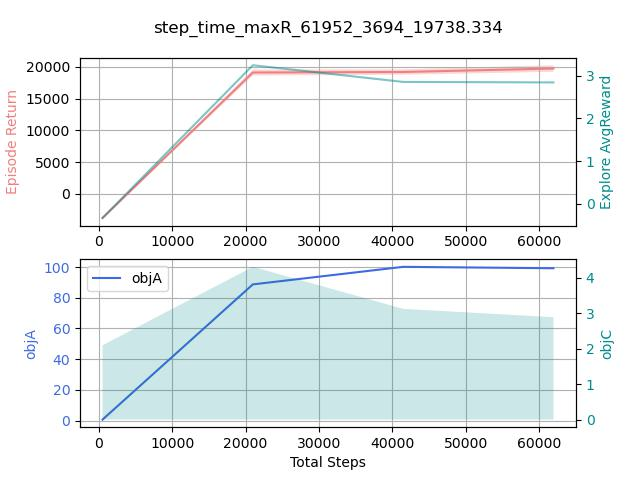
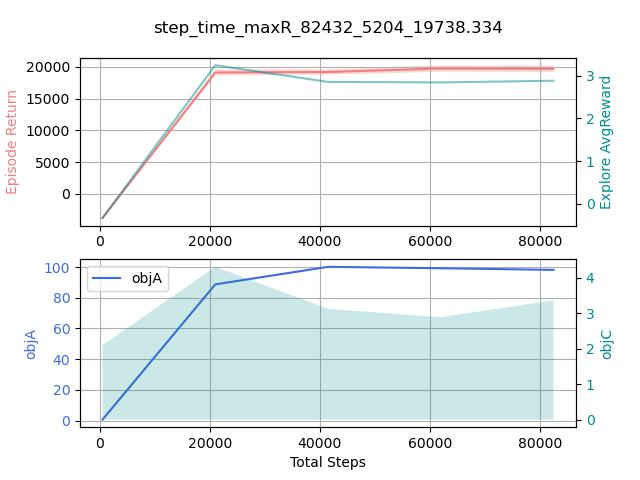
230222 VNS分支,MK06重大改进

diff --git a/src/LLH/LLHSetVNS2.py b/src/LLH/LLHSetVNS2.py
@@ -1,0 +1,332 @@
+import random
+
+from src.LLH.LLHUtils import timeTaken, getMachineIdx, changeMsRandom
+from src.utils import encoding
+from src.utils.parser import parse
+
+
+class LLHSetVNS():
+    def __init__(self, train = False):
+        # solutions
+        # self.solution_population = []
+        # self.solution_population_time = []
+        self.train = train
+        # if self.train:
+        #     self.best_solution = self.previous_solution = encoding.initializeFixedResult(self.parameters)
+        # else:
+        #     self.best_solution = self.previous_solution = encoding.initializeResult(self.parameters)
+        # self.best_time = self.previous_time = timeTaken(self.previous_solution, self.parameters)
+        # print('prev:', self.previous_time)
+
+
+        #llh
+        self.llh = []
+        # 添加所有函数到 llh
+        self.llh.append(self.heuristic1)
+        self.llh.append(self.heuristic2)
+        self.llh.append(self.heuristic3)
+        self.llh.append(self.heuristic4)
+        self.llh.append(self.heuristic5)
+        # self.llh.append(self.heuristicA)
+        self.llh.append(self.heuristicB)
+        # self.llh.append(self.heuristicC)
+        self.llh.append(self.heuristicD)
+        self.llh.append(self.heuristicE)
+        self.llh.append(self.heuristicF)
+
+
+
+    # 工具方法,更新最优解
+    def update_best_solution(self):
+        if self.best_time > self.previous_time:
+            self.best_solution = self.previous_solution
+            self.best_time = self.previous_time
+
+    # 重设
+    def reset(self, problem_path):
+        self.parameters = parse(problem_path)
+
+        if self.train:
+            self.best_solution = self.previous_solution = encoding.initializeFixedResult(self.parameters)
+        else:
+            self.best_solution = self.previous_solution = encoding.initializeResult(self.parameters)
+        self.previous_time = self.best_time = timeTaken(self.previous_solution, self.parameters)
+
+    def accept_wrapper(self, llh_call):
+        new_solution, new_time = self.llh[llh_call]()
+        if llh_call in [0, 1, 2, 3, 4]:
+            if new_time < self.previous_time:
+                self.previous_solution = new_solution
+                self.previous_time = new_time
+                return True
+        else:
+            self.previous_solution = new_solution
+            self.previous_time = new_time
+        self.update_best_solution()
+
+
+
+
+    # VND==============================================
+    # 工序码局部搜索,返回值为 previous_time 改写完成
+
+    def heuristic1(self):
+        (os, ms) = self.previous_solution
+        idx = random.randint(0, len(os) - 1)
+        for i in range(0, len(os)):
+            newOs = os.copy()
+            k = newOs[idx]
+            newOs = newOs[0:idx] + newOs[idx + 1: len(newOs)]
+            newOs = newOs[0: i] + [k] + newOs[i: len(newOs)]
+            new_time = timeTaken((newOs, ms), self.parameters)
+            if self.previous_time > new_time:
+                return (newOs, ms), new_time
+        return (os, ms), self.previous_time
+
+    # 机器码局部搜索，全搜一遍,返回 previous_time 改写完成
+    def heuristic2(self):
+        # self.check_tabu(os_ms)
+        # 获取作业集合
+        jobs = self.parameters['jobs']
+        # idx = self.get_randon_zero_index(self.ms_tabu)
+        # idx = random.randint(0, len(ms) - 1)
+        # self.ms_tabu[idx] = 1
+        # 搜索整个机器码序列
+        for idx in range(0, len(self.previous_solution[1])):
+            mcLength = 0  # 工具人
+            jobIdx = -1  # 所属工作号
+            for job in jobs:
+                jobIdx += 1
+                if mcLength + len(job) >= idx + 1:
+                    break
+                else:
+                    mcLength += len(job)
+            opIdx = idx - mcLength  # 指定位置对应的 在工件中的工序号
+            # 开始搜索机器集合
+            for i in range(0, len(jobs[jobIdx][opIdx])):
+                newMs = self.previous_solution[1].copy()
+                newMs[idx] = i
+                new_time = timeTaken((self.previous_solution[0], newMs), self.parameters)
+                if self.previous_time > new_time:
+                    self.previous_solution = (self.previous_solution[0], newMs)
+                    self.previous_time = new_time
+                    break
+        self.update_best_solution()
+
+    # 并行局部搜索 改进在此
+    def heuristic3(self):
+        # self.check_tabu(os_ms)
+
+        # 获取作业集合
+        jobs = self.parameters['jobs']
+        # print(tos)
+        idx = random.randint(0, len(self.previous_solution[0]) - 1)
+        # idx = self.get_randon_zero_index(self.os_tabu2)
+        # self.os_tabu2[idx] = 1
+        # 获取作业编号
+        for i in range(0, len(self.previous_solution[0])):
+            newOs = self.previous_solution[0].copy()
+            k = newOs[idx]
+            newOs = newOs[0:idx] + newOs[idx + 1: len(newOs)]
+            newOs = newOs[0: i] + [k] + newOs[i: len(newOs)]
+            # 工序新位置到位
+            # 开始机器码搜索
+            machineIdx = getMachineIdx(i, newOs, self.parameters)
+            mcLength = 0  # 工具人
+            jobIdx = -1  # 所属工作号
+            for job in jobs:
+                jobIdx += 1
+                if mcLength + len(job) >= machineIdx + 1:
+                    break
+                else:
+                    mcLength += len(job)
+            opIdx = machineIdx - mcLength
+            for j in range(0, len(jobs[jobIdx][opIdx])):
+                newMs = self.previous_solution[1].copy()
+                newMs[machineIdx] = j
+                new_time = timeTaken((newOs, newMs), self.parameters)
+                if self.previous_time > new_time:
+                    self.previous_solution = (newOs, newMs)
+                    self.previous_time = new_time
+                    break
+        self.update_best_solution()
+
+    # 10. 随机前移工序码子序列, 并改变对应位置的机器码
+    def heuristic4(self):
+        ida = idb = random.randint(0, len(self.previous_solution[0]) - 2)
+        while ida == idb:
+            idb = random.randint(0, len(self.previous_solution[0]) - 1)
+        if ida > idb:
+            ida, idb = idb, ida
+        newOs = self.previous_solution[0][ida:idb + 1] + self.previous_solution[0][:ida] + self.previous_solution[0][idb + 1:]
+        newMs = self.previous_solution[1].copy()
+        for i in range(0, idb - ida + 1):
+            newMs = changeMsRandom(i, newMs, self.parameters)
+        new_time = timeTaken((newOs, newMs), self.parameters)
+        if self.previous_time > new_time:
+            self.previous_solution = (newOs, newMs)
+            self.previous_time = new_time
+            self.update_best_solution()
+
+    # 5. 随机改变单个机器码
+    def heuristic5(self):
+        machineIdx = random.randint(0, len(self.previous_solution[1]) - 1)
+        # ('selected idx : ', machineIdx)
+        newMs = changeMsRandom(machineIdx, self.previous_solution[1], self.parameters)
+        new_time = timeTaken((self.previous_solution[0], newMs), self.parameters)
+        if self.previous_time > new_time:
+            self.previous_solution = (self.previous_solution[0], newMs)
+            self.previous_time = new_time
+            self.update_best_solution()
+
+    # 9. 工序码随机反转子序列并同时随机改变对应位置机器码 已测
+    def heuristic6(self):
+        ida = idb = random.randint(0, len(self.previous_solution[0]) - 2)
+        while ida == idb:
+            idb = random.randint(0, len(self.previous_solution[0]) - 1)
+        if ida > idb:
+            ida, idb = idb, ida
+        rev = self.previous_solution[0][ida:idb + 1]
+        rev.reverse()
+        newOs = self.previous_solution[0][:ida] + rev + self.previous_solution[0][idb + 1:]
+        newMs = self.previous_solution[1].copy()
+        for i in range(ida, idb + 1):
+            # print('place: ', i)
+            newMs = changeMsRandom(i, newMs, self.parameters)
+        new_time = timeTaken((newOs, newMs), self.parameters)
+        if self.previous_time > new_time:
+            self.previous_solution = (newOs, newMs)
+            self.previous_time = new_time
+            self.update_best_solution()
+
+
+
+    # shaking=========================================================
+    # 随机机器码区间破坏
+    def heuristicA(self):
+        (os, ms) = self.previous_solution
+        ida = idb = random.randint(0, len(os) - 2)
+        while ida == idb:
+            idb = random.randint(0, len(os) - 1)
+        if ida > idb:
+            ida, idb = idb, ida
+        newMs = ms.copy()
+        for i in range(0, idb - ida + 1):
+            newMs = changeMsRandom(i, newMs, self.parameters)
+        new_time = timeTaken((os, newMs), self.parameters)
+        self.previous_solution = (os, newMs)
+        self.previous_time = new_time
+
+    # 随机工序码区间破坏
+    def heuristicB(self):
+        (os, ms) = self.previous_solution
+        ida = idb = random.randint(0, len(os) - 2)
+        while ida == idb:
+            idb = random.randint(0, len(os) - 1)
+        if ida > idb:
+            ida, idb = idb, ida
+        # 打乱区间的工序码顺序
+        newOs = os.copy()
+        mid = newOs[ida:idb + 1]
+        random.shuffle(mid)
+        newOs = os[:ida] + mid + os[idb + 1:]
+        # 替换当前解
+        new_time = timeTaken((newOs, ms), self.parameters)
+        self.previous_solution = (newOs, ms)
+        self.previous_time = new_time
+
+    # 并行区间破坏
+    def heuristicC(self):
+        # 选择操作区间
+        (os, ms) = self.previous_solution
+        ida = idb = random.randint(0, len(os) - 2)
+        while ida == idb:
+            idb = random.randint(0, len(os) - 1)
+        if ida > idb:
+            ida, idb = idb, ida
+        # 打乱区间的工序码顺序
+        newOs = os.copy()
+        mid = newOs[ida:idb + 1]
+        random.shuffle(mid)
+        newOs = os[:ida] + mid + os[idb + 1:]
+        #随机改变区间工序码对应机器码
+        newMs = ms.copy()
+        for i in range(0, idb - ida + 1):
+            machineIdx = getMachineIdx(i, newOs, self.parameters)
+            newMs = changeMsRandom(machineIdx, newMs, self.parameters)
+        # 替换当前解,跳出邻域
+        new_time = timeTaken((newOs, newMs), self.parameters)
+        self.previous_solution = (newOs, newMs)
+        self.previous_time = new_time
+
+    # 小邻域结构==============================
+
+    # 8. 工序码随机交换同时随机改变对应位置机器码 已测
+    def heuristicD(self):
+
+        (os, ms) = self.previous_solution
+        while(True):
+            newOs = os.copy()
+            newMs = ms.copy()
+            # 随机选择两个工序码
+            ida = idb = random.randint(0, len(os) - 1)
+            while ida == idb:
+                idb = random.randint(0, len(os) - 1)
+            # 交换工序码
+            newOs[ida], newOs[idb] = newOs[idb], newOs[ida]
+            # 定位机器码
+            machineIda = getMachineIdx(ida, os, self.parameters)
+            machineIdb = getMachineIdx(idb, os, self.parameters)
+            # 随机改变机器码
+            newMs = changeMsRandom(machineIda, newMs, self.parameters)
+            newMs = changeMsRandom(machineIdb, newMs, self.parameters)
+
+            # 替换当前解,跳出邻域
+            new_time = timeTaken((newOs, newMs), self.parameters)
+            # if new_time != self.previous_time:
+            #     self.previous_solution = (newOs, newMs)
+            #     self.previous_time = new_time
+            #     return
+            self.previous_solution = (newOs, newMs)
+            self.previous_time = new_time
+            return
+
+    # 5. 随机改变单个机器码 已测
+    def heuristicE(self):
+        (os, ms) = self.previous_solution
+        while(True):
+            machineIdx = random.randint(0, len(ms) - 1)
+            # ('selected idx : ', machineIdx)
+            newMs = changeMsRandom(machineIdx, ms, self.parameters)
+            new_Time = timeTaken((os, newMs), self.parameters)
+            # if new_Time != self.previous_time:
+            #     # 替换当前解,跳出邻域
+            #     self.previous_solution = (os, newMs)
+            #     self.previous_time = new_Time
+            #     return
+            self.previous_solution = (os, newMs)
+            self.previous_time = new_Time
+            return
+
+
+    # 1. 随机交换两个工序码, 返回新的工序码 已测
+    def heuristicF(self):
+        # print('1')
+        # 随机选择两个不同机器码
+        (os, ms) = self.previous_solution
+        while(True):
+            ida = idb = random.randint(0, len(os) - 1)
+            while ida == idb:
+                idb = random.randint(0, len(os) - 1)
+
+            newOs = os.copy()
+            newOs[ida], newOs[idb] = newOs[idb], newOs[ida]
+            new_time = timeTaken((newOs, ms), self.parameters)
+            # if new_time != self.previous_time:
+            #     # 替换当前解,跳出邻域
+            #     self.previous_solution = (newOs, ms)
+            #     self.previous_time = new_time
+            #     return
+            self.previous_solution = (newOs, ms)
+            self.previous_time = new_time
+            return

diff --git a/src/HLS/DQN2_ERL_VNS/solve_MK01.py b/src/HLS/DQN2_ERL_VNS/solve_MK01.py
@@ -14,10 +14,10 @@ from env import vns_env
 
 gym.logger.set_level(40)  # Block warning
 
-PROBLEM = 'MK10'
+PROBLEM = 'MK01'
 PROBLEM_PATH = os.path.join(os.getcwd(), "../../Brandimarte_Data/" + PROBLEM + ".fjs")
 LLH_SET = 'VNS'
-SOLVE_ITER = 1000
+SOLVE_ITER = 2000
 RENDER_TIMES = 20
 ACTOR_PATH = f"./vns_env-v0_DQN_0_MK04_VNS"
 MODULE = '/actor__000000020992_19114.666.pt'

diff --git a/src/HLS/DQN2_ERL_VNS/solve_MK02.py b/src/HLS/DQN2_ERL_VNS/solve_MK02.py
@@ -14,10 +14,10 @@ from env import vns_env
 
 gym.logger.set_level(40)  # Block warning
 
-PROBLEM = 'MK10'
+PROBLEM = 'MK02'
 PROBLEM_PATH = os.path.join(os.getcwd(), "../../Brandimarte_Data/" + PROBLEM + ".fjs")
 LLH_SET = 'VNS'
-SOLVE_ITER = 1000
+SOLVE_ITER = 1500
 RENDER_TIMES = 20
 ACTOR_PATH = f"./vns_env-v0_DQN_0_MK04_VNS"
 MODULE = '/actor__000000020992_19114.666.pt'

diff --git a/src/HLS/DQN2_ERL_VNS/solve_MK06.py b/src/HLS/DQN2_ERL_VNS/solve_MK06.py
@@ -14,10 +14,10 @@ from env import vns_env
 
 gym.logger.set_level(40)  # Block warning
 
-PROBLEM = 'MK10'
+PROBLEM = 'MK06'
 PROBLEM_PATH = os.path.join(os.getcwd(), "../../Brandimarte_Data/" + PROBLEM + ".fjs")
 LLH_SET = 'VNS'
-SOLVE_ITER = 1000
+SOLVE_ITER = 1500
 RENDER_TIMES = 20
 ACTOR_PATH = f"./vns_env-v0_DQN_0_MK04_VNS"
 MODULE = '/actor__000000020992_19114.666.pt'

diff --git a/src/HLS/DQN2_ERL_VNS/solve_MK07.py b/src/HLS/DQN2_ERL_VNS/solve_MK07.py
@@ -14,10 +14,10 @@ from env import vns_env
 
 gym.logger.set_level(40)  # Block warning
 
-PROBLEM = 'MK10'
+PROBLEM = 'MK07'
 PROBLEM_PATH = os.path.join(os.getcwd(), "../../Brandimarte_Data/" + PROBLEM + ".fjs")
 LLH_SET = 'VNS'
-SOLVE_ITER = 1000
+SOLVE_ITER = 2000
 RENDER_TIMES = 20
 ACTOR_PATH = f"./vns_env-v0_DQN_0_MK04_VNS"
 MODULE = '/actor__000000020992_19114.666.pt'

diff --git a/src/HLS/DQN2_ERL_VNS/solve_MK05.py b/src/HLS/DQN2_ERL_VNS/solve_MK05.py
@@ -14,7 +14,7 @@ from env import vns_env
 
 gym.logger.set_level(40)  # Block warning
 
-PROBLEM = 'MK10'
+PROBLEM = 'MK05'
 PROBLEM_PATH = os.path.join(os.getcwd(), "../../Brandimarte_Data/" + PROBLEM + ".fjs")
 LLH_SET = 'VNS'
 SOLVE_ITER = 1000
